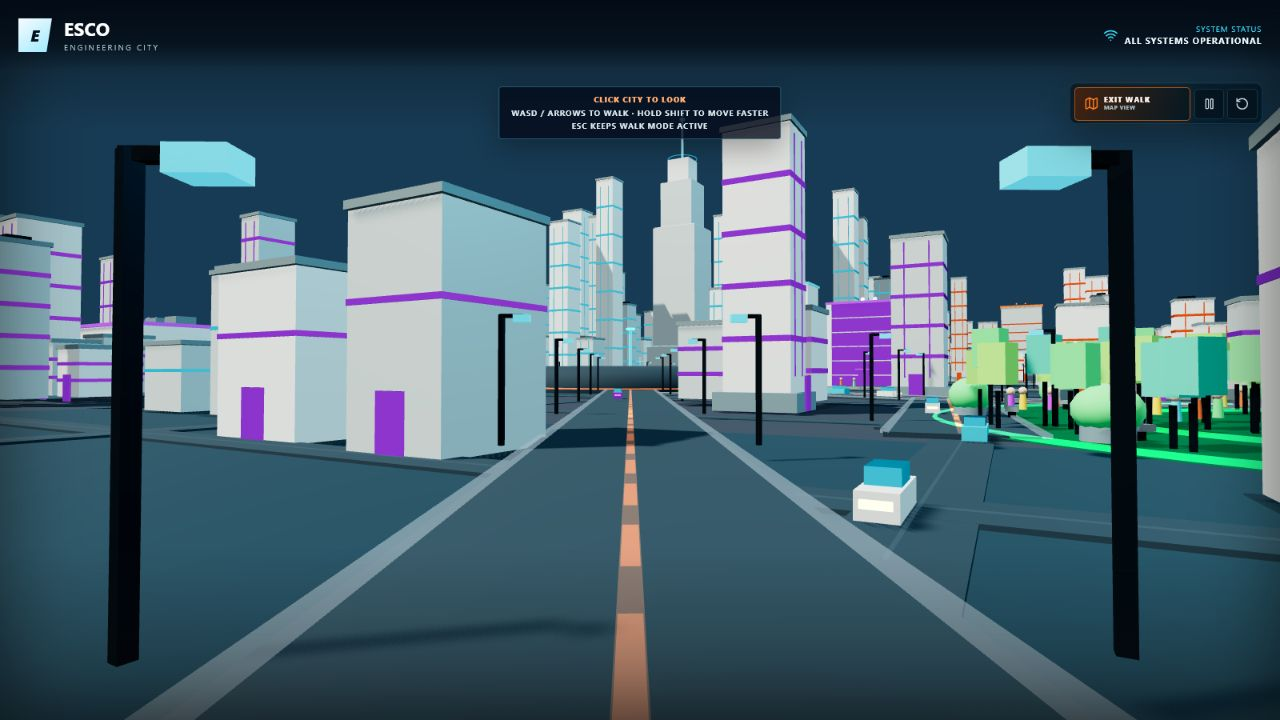
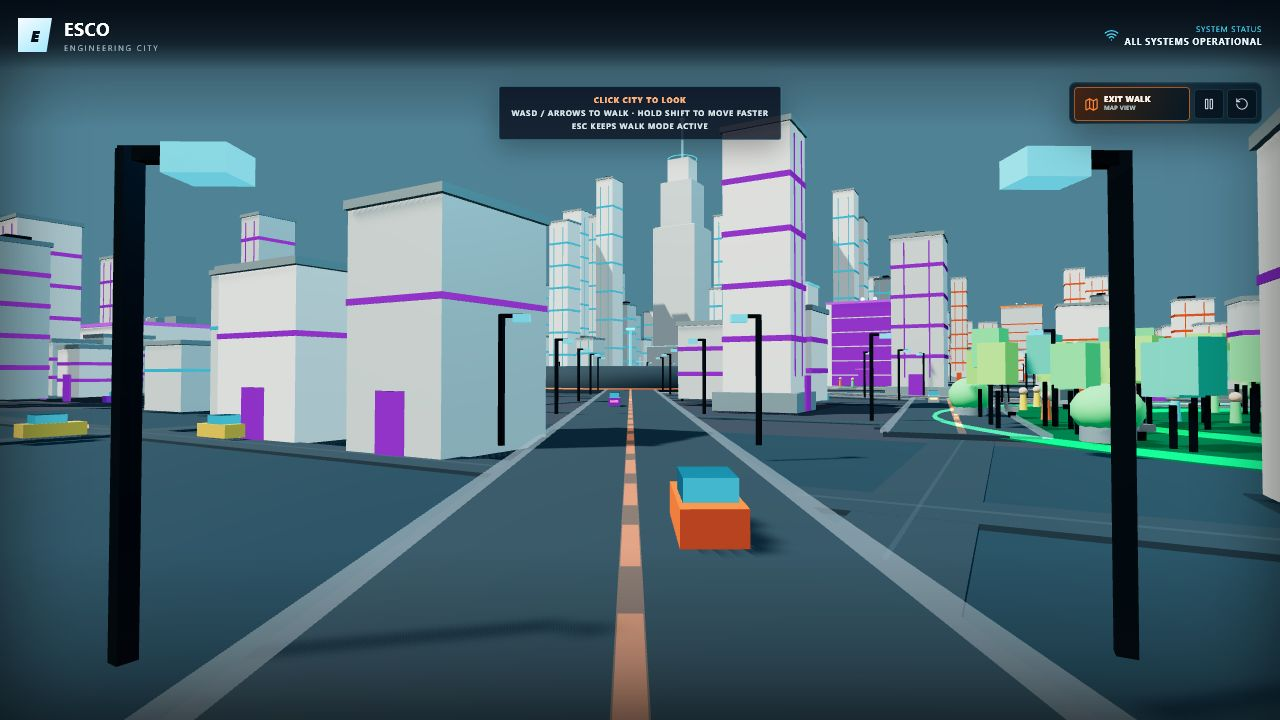
product: rebuild city as a flat voxel world

diff --git a/frontend/src/components/ThreeCity.tsx b/frontend/src/components/ThreeCity.tsx
@@ -143,9 +143,9 @@ interface FirstPersonLook {
 const HUB: Point2 = [4, 20];
 const LANDMARK: Point2 = [-5, -11];
 const PARK: Point2 = [50, 52];
-const OVERVIEW_POSITION: Vec3 = [126, 210, 132];
-const OVERVIEW_TARGET: Vec3 = [0, 2, 0];
-const OVERVIEW_VERTICAL_SIZE = 116;
+const OVERVIEW_POSITION: Vec3 = [138, 99, 152];
+const OVERVIEW_TARGET: Vec3 = [0, 0, 5];
+const OVERVIEW_FOV = 44;
 const FIRST_PERSON_START: Vec3 = [38, 1.86, 78];
 const FIRST_PERSON_TARGET: Vec3 = [4, 3.1, 18];
 const FIRST_PERSON_BOUNDS = {
@@ -303,7 +303,7 @@ const ROOT_STYLE: CSSProperties = {
   position: "absolute",
   inset: 0,
   overflow: "hidden",
-  background: "#173b54"
+  background: "#4d8398"
 };
 
 const CANVAS_MOUNT_STYLE: CSSProperties = {
@@ -582,9 +582,9 @@ function addFacadeBands(
 
 function createWorldGround(scene: THREE.Scene, palette: MaterialPalette) {
   const ground = new THREE.Mesh(
-    new THREE.PlaneGeometry(1400, 1400),
+    new THREE.PlaneGeometry(1800, 1800),
     new THREE.MeshStandardMaterial({
-      color: 0x122a38,
+      color: 0x17343f,
       roughness: 0.98,
       metalness: 0.02
     })
@@ -606,6 +606,32 @@ function createWorldGround(scene: THREE.Scene, palette: MaterialPalette) {
   urbanGround.position.y = 0.004;
   urbanGround.receiveShadow = true;
   scene.add(urbanGround);
+
+  const chunkGeometry = new THREE.BoxGeometry(1, 1, 1);
+  const chunkMatrices: THREE.Matrix4[][] = [[], [], [], []];
+  const chunkSize = 16;
+  for (let chunkX = -42; chunkX <= 42; chunkX += 1) {
+    for (let chunkZ = -42; chunkZ <= 42; chunkZ += 1) {
+      const x = chunkX * chunkSize;
+      const z = chunkZ * chunkSize;
+      if (Math.abs(x) < 142 && Math.abs(z) < 108) continue;
+      const variant = Math.abs((chunkX * 17 + chunkZ * 31 + chunkX * chunkZ * 3) % 4);
+      chunkMatrices[variant].push(
+        boxMatrix(x, -0.045, z, chunkSize + 0.035, 0.08, chunkSize + 0.035)
+      );
+    }
+  }
+  const chunkMaterials = [0x173743, 0x193b46, 0x153540, 0x1b3d47].map(
+    (color) =>
+      new THREE.MeshStandardMaterial({
+        color,
+        roughness: 0.99,
+        metalness: 0.01
+      })
+  );
+  chunkMatrices.forEach((matrices, index) => {
+    addInstancedBoxes(scene, chunkGeometry, matrices, chunkMaterials[index], false);
+  });
 
   createWaterBand(scene, palette, [0, -33], [219, 7.2]);
   createWaterBand(scene, palette, [0, 27.5], [219, 6.4]);
@@ -2296,7 +2322,7 @@ export function ThreeCity({
   viewMode
 }: ThreeCityProps) {
   const mountRef = useRef<HTMLDivElement>(null);
-  const cameraRef = useRef<THREE.OrthographicCamera | null>(null);
+  const cameraRef = useRef<THREE.PerspectiveCamera | null>(null);
   const firstPersonCameraRef = useRef<THREE.PerspectiveCamera | null>(null);
   const rendererRef = useRef<THREE.WebGLRenderer | null>(null);
   const controlsRef = useRef<OrbitControls | null>(null);
@@ -2335,8 +2361,8 @@ export function ThreeCity({
     try {
       setRenderError(null);
       scene = new THREE.Scene();
-      scene.background = new THREE.Color(0x173b54);
-      scene.fog = new THREE.Fog(0x173b54, 185, 430);
+      scene.background = new THREE.Color(0x4d8398);
+      scene.fog = new THREE.Fog(0x4d8398, 285, 660);
 
       renderer = new THREE.WebGLRenderer({
         antialias: true,
@@ -2361,7 +2387,7 @@ export function ThreeCity({
       mount.appendChild(renderer.domElement);
       rendererRef.current = renderer;
 
-      const camera = new THREE.OrthographicCamera(-105, 105, 63, -63, 0.1, 450);
+      const camera = new THREE.PerspectiveCamera(OVERVIEW_FOV, 1, 0.1, 1200);
       camera.position.set(...OVERVIEW_POSITION);
       camera.zoom = 1;
       camera.lookAt(...OVERVIEW_TARGET);
@@ -2385,8 +2411,8 @@ export function ThreeCity({
       controls.maxPolarAngle = THREE.MathUtils.degToRad(69);
       controls.minAzimuthAngle = -Infinity;
       controls.maxAzimuthAngle = Infinity;
-      controls.minZoom = 0.68;
-      controls.maxZoom = 2.25;
+      controls.minDistance = 105;
+      controls.maxDistance = 390;
       controls.enabled = viewModeRef.current === "overview";
       controls.update();
       controlsRef.current = controls;
@@ -2576,14 +2602,7 @@ export function ThreeCity({
         const width = Math.max(1, Math.round(bounds.width));
         const height = Math.max(1, Math.round(bounds.height));
         const aspect = width / height;
-        const verticalSize = Math.max(
-          OVERVIEW_VERTICAL_SIZE,
-          132 / Math.max(0.75, aspect)
-        );
-        camera.left = (-verticalSize * aspect) / 2;
-        camera.right = (verticalSize * aspect) / 2;
-        camera.top = verticalSize / 2;
-        camera.bottom = -verticalSize / 2;
+        camera.aspect = aspect;
         camera.updateProjectionMatrix();
         firstPersonCamera.aspect = aspect;
         firstPersonCamera.updateProjectionMatrix();
@@ -2789,7 +2808,7 @@ export function ThreeCity({
       <div className="three-city-mode-badge" style={MODE_BADGE_STYLE}>
         {viewMode === "first-person"
           ? "OPS CITY · FIRST PERSON · WASD TO MOVE"
-          : "OPS CITY · DRAG TO ORBIT 360° · SCROLL TO ZOOM"}
+          : "OPS CITY · FLAT WORLD · DRAG TO ORBIT 360° · SCROLL TO ZOOM"}
       </div>
 
       {viewMode === "first-person" && (

diff --git a/frontend/src/components/CityMapHud.tsx b/frontend/src/components/CityMapHud.tsx
@@ -26,9 +26,9 @@ export interface CityMapHudProps {
 }
 
 const districts: DistrictLabel[] = [
-  { id: "intake", label: "North Review", detail: "Project intake · 1 queued", x: "18%", y: "24%" },
-  { id: "automation", label: "Automation Core", detail: "Logic review · 1 active", x: "37%", y: "18%" },
-  { id: "hmi", label: "HMI District", detail: "Tag review · 1 active", x: "68%", y: "25%" },
+  { id: "intake", label: "North Review", detail: "Project intake · 1 queued", x: "23%", y: "43%" },
+  { id: "automation", label: "Automation Core", detail: "Logic review · 1 active", x: "40%", y: "34%" },
+  { id: "hmi", label: "HMI District", detail: "Tag review · 1 active", x: "66%", y: "42%" },
   { id: "electrical", label: "Electrical Works", detail: "I/O review · 1 active", x: "84%", y: "48%" },
   { id: "qa", label: "QA Campus", detail: "Validation · 1 waiting", x: "67%", y: "68%" },
   { id: "documentation", label: "Documentation Quarter", detail: "Reports · package ready", x: "39%", y: "76%" },

diff --git a/frontend/src/components/City.tsx b/frontend/src/components/City.tsx
@@ -44,7 +44,7 @@ export function City() {
               type="button"
               className="is-active"
               aria-pressed="true"
-              title="Map view: drag to orbit 360°, scroll or pinch to zoom"
+              title="Flat-world map: drag to orbit 360°, scroll or pinch to zoom"
               onClick={() => changeViewMode("overview")}
             >
               <Map aria-hidden="true" />

diff --git a/docs/product/PRODUCT.md b/docs/product/PRODUCT.md
@@ -11,8 +11,8 @@ ESCO Engineering City is a local engineering-operations workspace. Its multi-dis
 - Agent positions derive from semantic workflow state, never random movement.
 - The home is an immersive Three.js WebGL digital-twin world with a central skyline, eight workflow districts, hundreds of deterministic instanced buildings, connected metropolitan blocks, roads, bridges, waterways, industrial and logistics infrastructure, and layered system overlays.
 - The city is visibly active: deterministic demo traffic moves in both directions, pedestrians circulate through the plaza, park, and engineering forecourts, water and workflow routes pulse, and building beacons/windows change over time. Pause and reduced-motion freeze this ambient activity.
-- The overview opens in the composed isometric city view, then supports free 360° drag orbit plus wheel or pinch zoom without requiring first-person mode. Reset restores the original composition, while a separate first-person mode provides street-level exploration.
-- Its visual language uses a daylight-blue environment, continuous urban terrain, luminous cyan infrastructure and water, orange mobility routes, purple district accents, and varied green public space. Developed terrain stays free of a global black grid and visible platform edges.
+- The overview opens as a perspective flat world with a broad horizon, then supports free 360° drag orbit plus wheel or pinch zoom without requiring first-person mode. Reset restores the original composition, while a separate first-person mode provides street-level exploration.
+- Its visual language uses a daylight-blue environment, continuous block-tiled terrain, luminous cyan infrastructure and water, orange mobility routes, purple district accents, and varied green public space. The subtle chunk variation gives the surrounding world a voxel-built scale without reintroducing a global black grid or visible platform edges.
 - The city-first chrome is one coherent spectator interface: a compact navigation rail, unified command bar, lightweight spatial labels, a small minimap, a clearly marked synthetic activity strip, compact layers, and an operational summary frame the world without shrinking it into a dashboard card.
 - Demo records are always marked `DEMO DATA`.
 - AI recommendations are advisory and never imply approval.

diff --git a/README.md b/README.md
@@ -6,7 +6,7 @@ Local-only engineering operations software for ESCO Group. The product shows pro
 
 ## Product surfaces
 
-- Engineering City — an immersive, edge-to-edge digital-twin home with a connected Three.js metro, moving traffic and pedestrians, a live synthetic workflow feed, an isometric starting view with free 360° orbit and zoom, and a street-level first-person walk mode
+- Engineering City — an immersive, edge-to-edge digital-twin home with a connected Three.js metro, moving traffic and pedestrians, a live synthetic workflow feed, a block-built flat-world perspective with free 360° orbit and zoom, and a street-level first-person walk mode
 - Projects and Tasks — progress, blockers, dependencies, and approval state
 - Findings & Evidence — exact source locations, confidence, risk, and comparison
 - Approvals — explanation-gated human decisions
